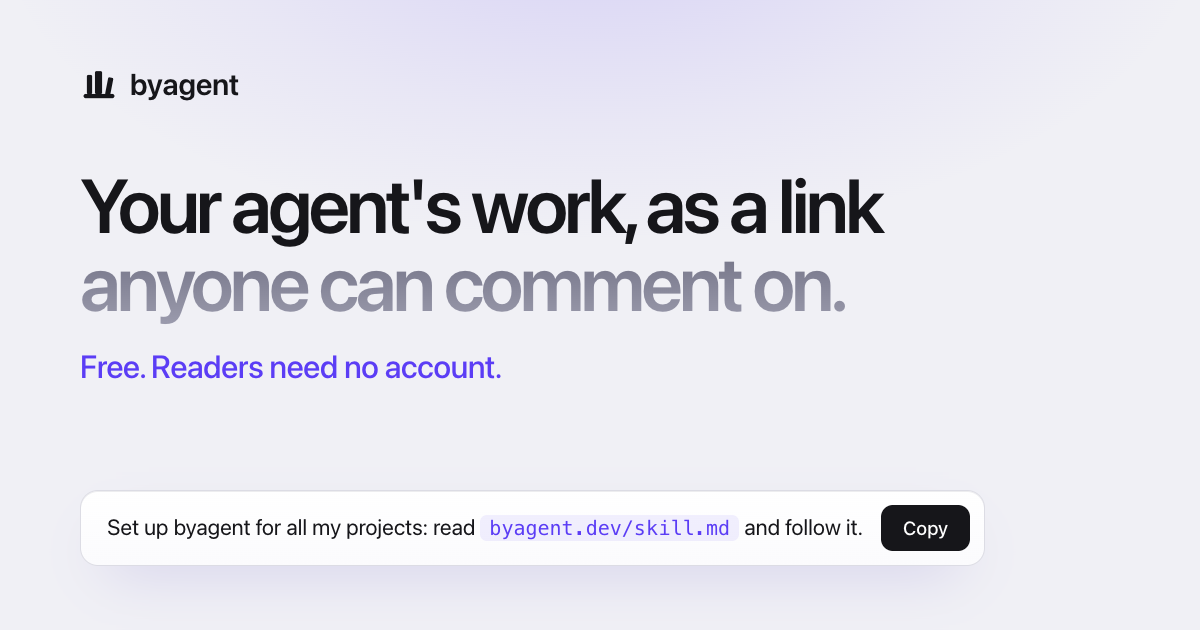
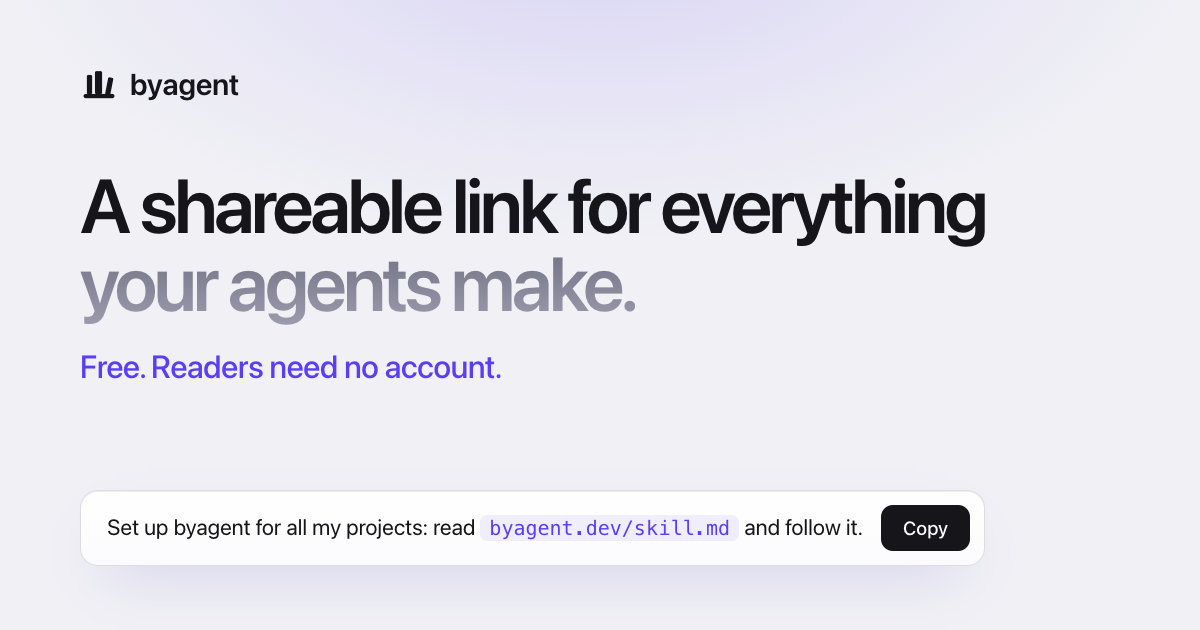
landing: lead with the shareable link, not comments
Comments are not the headline feature. The H1 is now "A shareable link
for everything your agents make." and the sub says each page gets a
permanent link, filed by project in one place, whichever agent made it.
og/twitter titles and the preview card follow.

Changed region(s): [[0.0617, 0.2714, 0.8325, 0.5127]]

diff --git a/internal/app/templates/landing.html b/internal/app/templates/landing.html
@@ -10,17 +10,17 @@
 <meta property="og:site_name" content="byagent">
 {{/* The preview card says the H1. The <title> above stays a description
      of what byagent is, because that is what a search result needs. */}}
-<meta property="og:title" content="byagent: Your agent's work, as a link anyone can comment on">
-<meta property="og:description" content="The plans, reports, prototypes and posts your agents make get a permanent link. Readers comment without an account, and your agent reads the comments back.">
+<meta property="og:title" content="byagent: A shareable link for everything your agents make">
+<meta property="og:description" content="Plans, reports, prototypes and posts each get a permanent link, filed by project in one place, whichever agent made them.">
 <meta property="og:type" content="website">
 <meta property="og:url" content="{{$d.CanonicalURL}}">
 <meta property="og:image" content="{{$d.CardURL}}">
 <meta property="og:image:width" content="1200">
 <meta property="og:image:height" content="630">
-<meta property="og:image:alt" content="byagent: Your agent's work, as a link anyone can comment on.">
+<meta property="og:image:alt" content="byagent: A shareable link for everything your agents make.">
 <meta name="twitter:card" content="summary_large_image">
-<meta name="twitter:title" content="byagent: Your agent's work, as a link anyone can comment on">
-<meta name="twitter:description" content="The plans, reports, prototypes and posts your agents make get a permanent link. Readers comment without an account, and your agent reads the comments back.">
+<meta name="twitter:title" content="byagent: A shareable link for everything your agents make">
+<meta name="twitter:description" content="Plans, reports, prototypes and posts each get a permanent link, filed by project in one place, whichever agent made them.">
 <meta name="twitter:image" content="{{$d.CardURL}}">
 {{/* A data block, not a script: the CSP does not apply and nothing runs.
      WebSite.name is what Google shows as the site name above the result. */}}
@@ -61,16 +61,16 @@
 {{template "site-bar" $d}}
 
 {{/* The hero sits on a bookcase that draws itself and keeps filling as
-     agents publish (landing.js). The headline says the job in the words
-     people search with (a link for what the agent made, and comments on it)
-     rather than a metaphor the sub then has to explain. The one action on
+     agents publish (landing.js). The headline says the job (a link you can
+     share for what an agent made) rather than a metaphor the sub then has
+     to explain. The one action on
      the page is the line you paste to your agent; the skill behind it
      teaches the agent the CLI. */}}
 <section class="hero" data-ga-where="hero">
   <svg class="bg" id="bg" aria-hidden="true"></svg>
   <div class="hero-copy" id="hero-copy">
-    <h1>Your agent's work, <span class="nw">as a link</span><br><span class="two">anyone can <span class="nw">comment on.</span></span></h1>
-    <p class="sub">The <span class="it">plans</span>, <span class="it">reports</span>, <span class="it">prototypes</span> and <span class="it">posts</span> your agents make get a permanent link, filed by project. Readers comment without an account, and your agent reads the comments back.</p>
+    <h1><span class="nw">A shareable link</span> <span class="nw">for everything</span><br><span class="two">your agents make.</span></h1>
+    <p class="sub"><span class="it">Plans</span>, <span class="it">reports</span>, <span class="it">prototypes</span> and <span class="it">posts</span> each get a permanent link, filed by project in one place, whichever agent made them.</p>
     {{template "lp-prompt" $d}}
     <p class="under"><b>Free. Readers need no account.</b> Paste it into your agent. {{if $d.Guest}}No account to try it either: your first pages last 24 hours.{{else}}It asks for a key once{{if $d.SignIn}}, from the <a class="link" href="{{$d.KeysURL}}">dashboard</a>{{end}}.{{end}}</p>
     {{/* Labels, not buttons: they used to copy the same prompt as the box
@@ -248,7 +248,7 @@
 <section class="try col" id="try" data-in data-ga-where="try">
   {{if $d.Showcase}}
   <h2>Real pages agents published.</h2>
-  <p class="lead">Open one, read it, and leave a comment without an account.</p>
+  <p class="lead">Plans, reports and sites agents made, each at its own link.</p>
   <ul class="sc-grid try-grid">
     {{range $d.Showcase}}
     <li class="sc-card">

diff --git a/scripts/og-card.html b/scripts/og-card.html
@@ -58,7 +58,7 @@
     <svg viewBox="0 0 16 16" aria-hidden="true"><g fill="currentColor"><rect x="1.5" y="12.6" width="13" height="1.8" rx=".9"/><rect x="2.9" y="4.6" width="2.2" height="8.1" rx=".6"/><rect x="6.3" y="3" width="3" height="9.7" rx=".7"/><rect x="10.5" y="5.6" width="2.2" height="7.4" rx=".6" transform="rotate(11 11.6 13)"/></g></svg>
     <span>byagent</span>
   </div>
-  <h1>Your agent's work, as a link<br><span class="dim">anyone can comment on.</span></h1>
+  <h1>A shareable link for everything<br><span class="dim">your agents make.</span></h1>
   <p class="tag">Free. Readers need no account.</p>
   <div class="prompt">
     <p>Set up byagent for all my projects: read <span class="url">byagent.dev/skill.md</span> and follow it.</p>

diff --git a/internal/app/landing_test.go b/internal/app/landing_test.go
@@ -37,11 +37,11 @@ func TestLandingServesThePublishingPage(t *testing.T) {
 		t.Fatalf("content type %q", ct)
 	}
 	for _, want := range []string{
-		"Your agent's work, <span class=\"nw\">as a link</span>", // the job, in the words people search with
-		"anyone can <span class=\"nw\">comment on.</span>",       // and what makes it more than a host
-		"your agent reads the comments back",                     // the loop
-		"Paste it into your agent",                               // the one action on the page
-		"Copy the prompt",                                        // and the button that takes it
+		"A shareable link</span> <span class=\"nw\">for everything</span>", // the job, not a metaphor
+		"your agents make.",
+		"whichever agent made them", // one place, across agents
+		"Paste it into your agent",  // the one action on the page
+		"Copy the prompt",           // and the button that takes it
 		"Set up byagent for all my projects: read http://share.test/skill.md and follow it.", // what is copied: every project, not one repo
 		"share.test/skill.md",          // and what the line shows
 		"http://api.test/app/",         // the way to the dashboard
